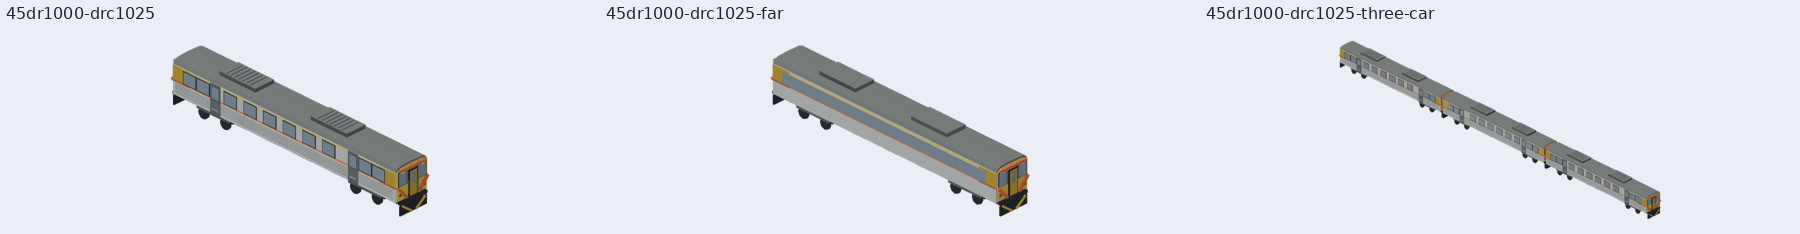
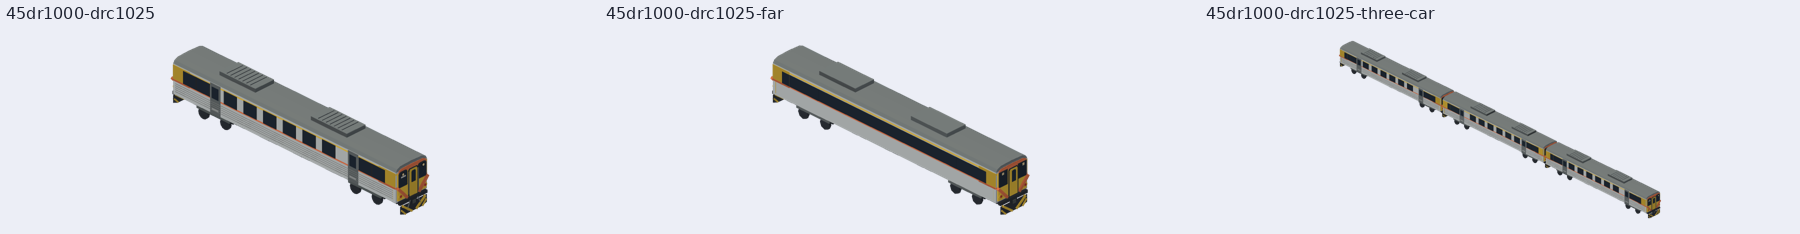
Rebuild DRC1025 cab front against dated photographs
Agent: Codex

diff --git a/Sources/GamePresentation/Map3D45DR1000.swift b/Sources/GamePresentation/Map3D45DR1000.swift
@@ -10,7 +10,7 @@ public enum Map3D45DR1000 {
     public static let yellow = Map3DColor.rgb(0xE9BB3B)
     public static let roof = Map3DColor.rgb(0x777D7C)
     public static let dark = Map3DColor.rgb(0x30343A)
-    public static let glass = Map3DPalette.glazing
+    public static let glass = Map3DTrainStyle.glass
     public static func model(far: Bool = false) -> Map3DModelPack.Model {
         var b = StationKitBuilder()
         b.dr1000(far: far)
@@ -27,6 +27,13 @@ extension StationKitBuilder {
     private mutating func drShell(_ x0: Float,_ x1: Float,_ bottom: Float,_ top: Float,_ color: UInt32) {
         func p(_ x:Float)->[Map3DPoint] { [Map3DPoint(x,bottom,-1.345),Map3DPoint(x,bottom,1.345),Map3DPoint(x,top,1.345),Map3DPoint(x,top,-1.345)] }
         drPrism(p(x0),p(x1),color)
+    }
+    /// A shallow raised casting on a cab end. Coordinates are height and lateral
+    /// position in metres; there is no shared locomotive/end-cab geometry.
+    private mutating func drEndPanel(_ end: Float,_ x: Float,_ outline: [(Float,Float)],_ depth: Float,_ color: UInt32) {
+        let back=outline.map { Map3DPoint(x+end*(depth-0.025),$0.0,$0.1) }
+        let front=outline.map { Map3DPoint(x+end*depth,$0.0,$0.1) }
+        drPrism(back,front,color)
     }
     mutating func dr1000(far: Bool) {
         let silver=Map3D45DR1000.silver, orange=Map3D45DR1000.orange
@@ -48,40 +55,94 @@ extension StationKitBuilder {
         // Both ends have cab windows and a central gangway, not a G12 hood or cab.
         for end:Float in [-1,1] {
             let x=end*9.65
-            let outline:[(Float,Float)]=[(1.25,-1.28),(1.25,1.28),(3.11,1.28),(3.32,1.17),(3.43,0.93),(3.46,0),(3.43,-0.93),(3.32,-1.17),(3.11,-1.28)]
-            let back=outline.map { Map3DPoint(x-end*0.03,$0.0,$0.1) }
-            let front=outline.map { Map3DPoint(x+end*0.03,$0.0,$0.1) }
-            drPrism(back,front,yellow)
+            // On DRC1025 the orange brow rolls over the roof shoulder. The
+            // yellow panel below it remains visible between three dark openings.
+            drEndPanel(end,x,[(1.25,-1.22),(1.25,1.22),(3.13,1.22),
+                              (3.19,1.17),(3.19,-1.17),(3.13,-1.22)],0.055,yellow)
+            drEndPanel(end,x,[(3.13,-1.22),(3.13,1.22),(3.32,1.17),
+                              (3.43,0.93),(3.46,0),(3.43,-0.93),
+                              (3.32,-1.17)],0.064,orange)
             for side:Float in [-1,1] {
-                box(x+end*0.052,2.19,side*0.82,0.025,0.79,1.05,dark)
-                box(x+end*0.069,2.22,side*0.82,0.016,0.68,0.96,glass)
+                // The cab corner turns from the 2.69 m sidewall into the
+                // slightly narrower end instead of ending at a square seam.
+                let outer=side*1.345, inner=side*1.29
+                let a=[Map3DPoint(end*9.37,1.25,outer),Map3DPoint(end*9.37,1.25,inner),
+                       Map3DPoint(end*9.37,3.16,inner),Map3DPoint(end*9.37,3.16,outer)]
+                let b=[Map3DPoint(end*9.69,1.25,side*1.22),Map3DPoint(end*9.69,1.25,side*1.17),
+                       Map3DPoint(end*9.69,3.16,side*1.17),Map3DPoint(end*9.69,3.16,side*1.22)]
+                drPrism(a,b,yellow)
                 if far {
-                    box(x+end*0.07,3.06,side*0.85,0.025,0.16,0.16,Map3DPalette.tunnelLamp)
+                    box(x+end*0.073,2.17,side*0.82,0.025,0.76,1.06,dark)
+                    box(x+end*0.089,2.21,side*0.82,0.016,0.65,0.97,glass)
+                    box(x+end*0.111,2.98,side*0.88,0.019,0.18,0.16,
+                        Map3DPalette.tunnelLamp)
                 } else {
-                    civicTube(Map3DPoint(x+end*0.07,3.13,side*0.85),
-                              Map3DPoint(x+end*0.11,3.13,side*0.85),
-                              radius:0.09,color:Map3DPalette.tunnelLamp,sides:12)
+                    func roundedWindow(_ base:Float,_ half:Float,_ top:Float) -> [(Float,Float)] {
+                        let centre=side*0.82
+                        return [(base,centre-half+0.05),(base,centre+half-0.05),
+                                (base+0.05,centre+half),(top-0.16,centre+half),
+                                (top-0.05,centre+half-0.07),(top,centre+half-0.20),
+                                (top,centre-half+0.20),(top-0.05,centre-half+0.07),
+                                (top-0.16,centre-half),(base+0.05,centre-half)]
+                    }
+                    drEndPanel(end,x,roundedWindow(2.15,0.38,3.25),0.085,dark)
+                    drEndPanel(end,x,roundedWindow(2.22,0.32,3.18),0.104,glass)
+                    // Lamp and its dark circular bezel sit in the black cab field.
+                    civicTube(Map3DPoint(x+end*0.108,3.04,side*0.88),
+                              Map3DPoint(x+end*0.137,3.04,side*0.88),
+                              radius:0.145,color:Map3DColor.rgb(0x202428),sides:12)
+                    civicTube(Map3DPoint(x+end*0.139,3.04,side*0.88),
+                              Map3DPoint(x+end*0.151,3.04,side*0.88),
+                              radius:0.083,color:Map3DPalette.tunnelLamp,sides:12)
+                    beam(Map3DPoint(x+end*0.151,2.29,side*0.51),
+                         Map3DPoint(x+end*0.151,2.76,side*1.05),0.024,dark)
+                    if end > 0 && side > 0 {
+                        // Small pale car-number card seen under the left lamp
+                        // in the dated DRC1025 photograph. No borrowed font.
+                        box(x+end*0.158,2.84,side*0.86,0.012,0.40,0.095,
+                            Map3DColor.rgb(0xE4E0D6))
+                    }
                 }
-                box(x+end*0.08,1.52,side*1.05,0.03,0.17,0.17,Map3DColor.rgb(0xBA3433))
+                civicTube(Map3DPoint(x+end*0.086,1.55,side*1.05),
+                          Map3DPoint(x+end*0.115,1.55,side*1.05),
+                          radius:0.18,color:yellow,sides:far ? 8:12)
+                civicTube(Map3DPoint(x+end*0.118,1.55,side*1.05),
+                          Map3DPoint(x+end*0.132,1.55,side*1.05),
+                          radius:0.09,color:Map3DColor.rgb(0xBA3433),sides:far ? 8:12)
                 // Orange V meets the side waist stripe at the outer edge.
                 beam(Map3DPoint(x+end*0.09,2.17,side*1.29),Map3DPoint(x+end*0.09,1.28,side*0.50),0.18,orange)
             }
-            beam(Map3DPoint(x+end*0.08,3.30,-1.13),
-                 Map3DPoint(x+end*0.08,3.30,1.13),0.16,orange)
-            box(x+end*0.10,1.25,0,0.08,0.76,1.86,dark)
-            box(x+end*0.15,1.31,0,0.04,0.60,1.71,yellow)
-            box(x+end*0.18,2.14,0,0.018,0.29,0.85,glass)
+            drEndPanel(end,x,[(1.23,-0.42),(1.23,0.42),(3.11,0.42),
+                              (3.22,0.32),(3.22,-0.32),(3.11,-0.42)],0.14,dark)
+            drEndPanel(end,x,[(1.29,-0.34),(1.29,0.34),(3.05,0.34),
+                              (3.15,0.27),(3.15,-0.27),(3.05,-0.34)],0.16,yellow)
+            drEndPanel(end,x,[(2.23,-0.17),(2.23,0.17),(2.95,0.17),
+                              (3.03,0.12),(3.03,-0.12),(2.95,-0.17)],0.18,glass)
+            if !far {
+                for side:Float in [-1,1] {
+                    beam(Map3DPoint(x+end*0.18,1.47,side*0.41),
+                         Map3DPoint(x+end*0.18,3.04,side*0.41),0.035,Map3D45DR1000.roof)
+                }
+            }
             box(x+end*0.09,0.96,0,0.20,2.35,0.21,dark)
             box(x+end*0.13,0.75,0,0.12,0.50,0.32,dark)
-            // Wide striped pilot masks the underframe when seen head on.
-            box(x+end*0.12,0.21,0,0.10,2.31,0.66,dark)
+            // The pilot is tapered at its lower corners, with two yellow
+            // diagonal chevrons and a visible central coupler and air hoses.
+            drEndPanel(end,x,[(0.20,-0.76),(0.20,0.76),(0.34,1.14),
+                              (0.87,1.14),(0.87,-1.14),(0.34,-1.14)],0.17,dark)
             for side:Float in [-1,1] {
                 beam(Map3DPoint(x+end*0.18,0.25,side*0.18),
                      Map3DPoint(x+end*0.18,0.86,side*0.98),0.14,yellow)
+                beam(Map3DPoint(x+end*0.18,0.22,side*0.72),
+                     Map3DPoint(x+end*0.18,0.60,side*1.08),0.10,yellow)
+                if !far {
+                    beam(Map3DPoint(x+end*0.19,1.05,side*0.32),
+                         Map3DPoint(x+end*0.22,0.53,side*0.57),0.055,Map3D45DR1000.roof)
+                    beam(Map3DPoint(x+end*0.22,0.53,side*0.57),
+                         Map3DPoint(x+end*0.17,0.35,side*0.47),0.055,Map3D45DR1000.roof)
+                }
             }
-            if !far { for side:Float in [-1,1] {
-                beam(Map3DPoint(x+end*0.17,2.44,side*0.42),Map3DPoint(x+end*0.17,1.49,side*0.42),0.035,Map3D45DR1000.roof)
-            } }
+            box(x+end*0.20,0.73,0,0.08,0.26,0.22,Map3DColor.rgb(0x595D5A))
         }
         // Inset doors and separate passenger windows; the accessible 1025 has no short toilet window.
         for side:Float in [-1,1] {

diff --git a/docs/art/45dr1000-2026-10-29/README.md b/docs/art/45dr1000-2026-10-29/README.md
@@ -21,3 +21,13 @@ The local `comparison.png` juxtaposes the two licensed originals at left and the
 | Insufficient data | Rear maker plate and any end-to-end asymmetry, precise roof pipe routes, exact underframe engine/generator housings, bogie centres, and the concealed side behind the station sign. |
 
 This comparison is the producer's self-review only. Appearance acceptance by the user remains **UNVERIFIED**.
+
+## Revision 2 — front rebuilt after user feedback
+
+The user said revision 1's front was still far from the real car. That front is **not** an accepted appearance. Revision 1 producer `5ad973d5ee0a1eb5bc015e07065dc3e6119f7280` and private commit `b172056575c93814c7c4c548bba04d7a0d01a2a3` remain the actual before version; its PNGs remain in the private `revision-1/` folder. The new producer and file hashes are recorded in `revision-2/`.
+
+Against the 2006 DRC1025 three-quarter photograph, the replacement front changes the dark glazing from blue-grey square blocks into two wide black rounded cab fields, moves the round lamps inside their upper corners, extends the orange cab brow over the rounded roof shoulder, shapes the yellow gangway and its smaller dark window, puts the lower red markers on round pods, and gives the pilot sloped corners, yellow diagonals, a coupler and hoses. The near model also places a small car-number card in the photographed cab; the far model keeps a simple lamp and matching major colours. These are original native vertex-colour triangles and use no G12 part.
+
+The fixed front camera holds the metre scale and day light constant across revisions. The source is oblique rather than orthographic, so the comparison supports relative locations and colour areas, not exact millimetres. Remaining departures: the black gasket still lacks the real door depth and metal handles, the pilot and air hoses are deliberately sparse at game scale, and the exact unseen rear face and roof hardware are not proven. Producer self-review records these openly; user acceptance of revision 2 is **UNVERIFIED**.
+
+The second front pass narrowed both black cab fields to restore the visible yellow outer margins, added solid angled corner cheeks from the 2.69 m sidewall to the end face, and split the pilot markings into two diagonal bars per side. The paired front render should be read alongside the oblique 2006 source, with the photo perspective and estimated fittings kept explicit. These changes supersede the first revision-2 preview; only the final revision-2 producer is delivered.

diff --git a/docs/HANDOFF.md b/docs/HANDOFF.md
@@ -1,4 +1,4 @@
-> Codex 45DR1000 靜態 studies（公開 draft #1530 ↔ 私庫 draft #33，producer `5ad973d5`）：`docs/art/45dr1000-2026-10-29/README.md` 與 sources.json 記 DRC1025 2006–08 版本、來源和推估。公開 recipe 只加 studies 近遠景；現有 dieselRailcar 營運映射不變。素材、外觀接受、整合與裝置狀態見互鏈 draft PR；不得以 Linux viewer 當真機驗收。
+> Codex 45DR1000 靜態 studies（公開 draft #1530 ↔ 私庫 draft #33）：`docs/art/45dr1000-2026-10-29/README.md` 與 sources.json 記 DRC1025 2006–08 版本、來源和推估。公開 recipe 只加 studies 近遠景；現有 dieselRailcar 營運映射不變。使用者指出 revision-1 正面差很多；revision-2 已重做兩黑色圓角駕駛窗、燈、橘色圓肩、黃色貫通門及排障器，真前版 producer `5ad973d5`，新 producer 與 bytes 見互鏈 draft PR。使用者對 revision-2 外觀接受仍 UNVERIFIED；整合與裝置也 UNVERIFIED，不得以 Linux viewer 當真機驗收。
 
 > Codex E200 鳴日號風格塗裝（2026-10-29）：[基準／單元／選用限制與重建](art/e200-mingri-style/README.md)。只新增既有 E200CK 機車及標準／尾客車的近遠 studies，原車／共用車／營運映射保持。沒有獨立玩家塗裝選用機制，合併不會自動出現在遊戲；使用者外觀接受、營運接入及真機仍UNVERIFIED。公開 [PR #1480](https://github.com/a91453/railway-game-ios/pull/1480) 仍 OPEN／ready；素材 [PR #25](https://github.com/a91453/railway-assets-private/pull/25) 已合併，實際 producer 與驗證見自有文件。
 
